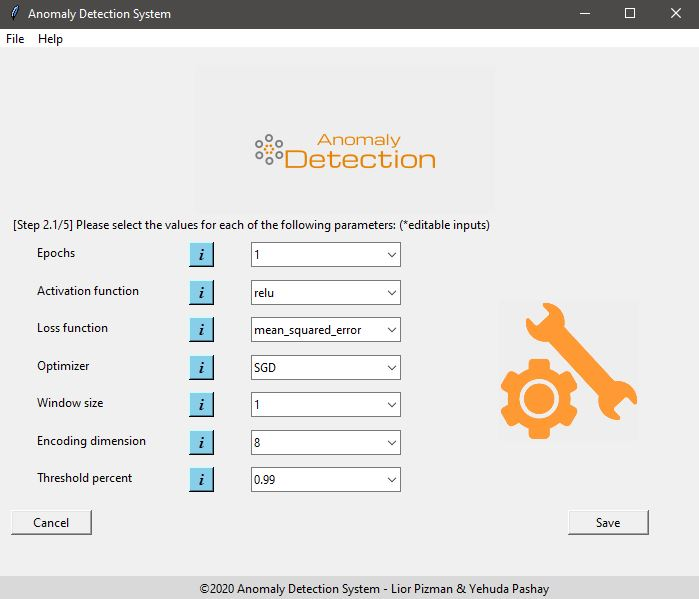
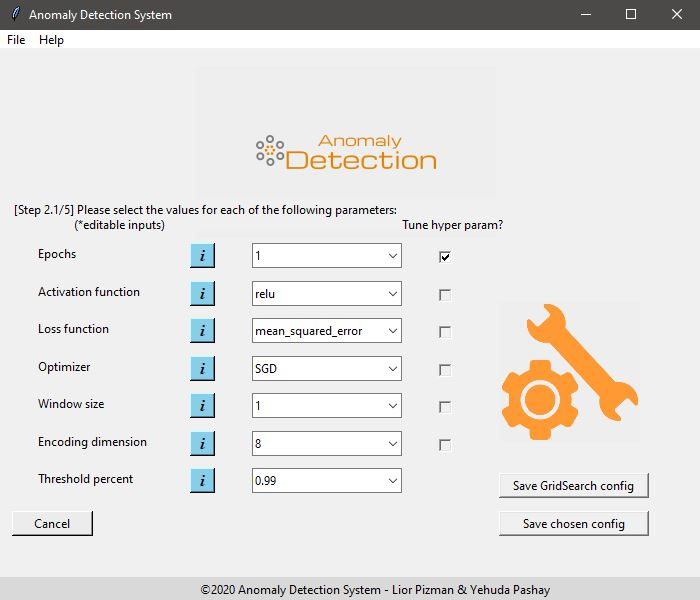
[UPDATE] GridSearch windows - readMe (#141)

diff --git a/README.md b/README.md
@@ -102,7 +102,7 @@ Insert simulated data / ADS-B data set input files<br/>
 Select algorithms for which you want to build anomaly detection models<br/>
 <img height=350 width=370 src="utils/images/new_model/algorithmsWindow.JPG">
 
-Select the values for each of the following parameters<br/>
+Select the values for each of the following parameters or run a **GridSearch** with chosen parameters<br/>
 <img height=350 width=370 src="utils/images/new_model/parametersOptionsWindow.JPG">
 
 Please choose both input and target features<br/>
@@ -134,7 +134,7 @@ Loading model, please wait...<br/>
 Choose an algorithm and a flight route in order to get the results table or image plots<br/>
 <img height=350 width=370 src="utils/images/shared/resultsWindow.JPG">
 
-Click on 'Export to CSV' button to export the results table<br/>
+Click on 'Export table' button to export the results table or click on 'Display & Export best algorithm params' button to export the **best params** for of the **GridSearch** <br/>
 <img height=350 width=370 src="utils/images/shared/resultsTableWindow.JPG">
 
 Click on 'Export to PNG' button to export the image plots<br/>
